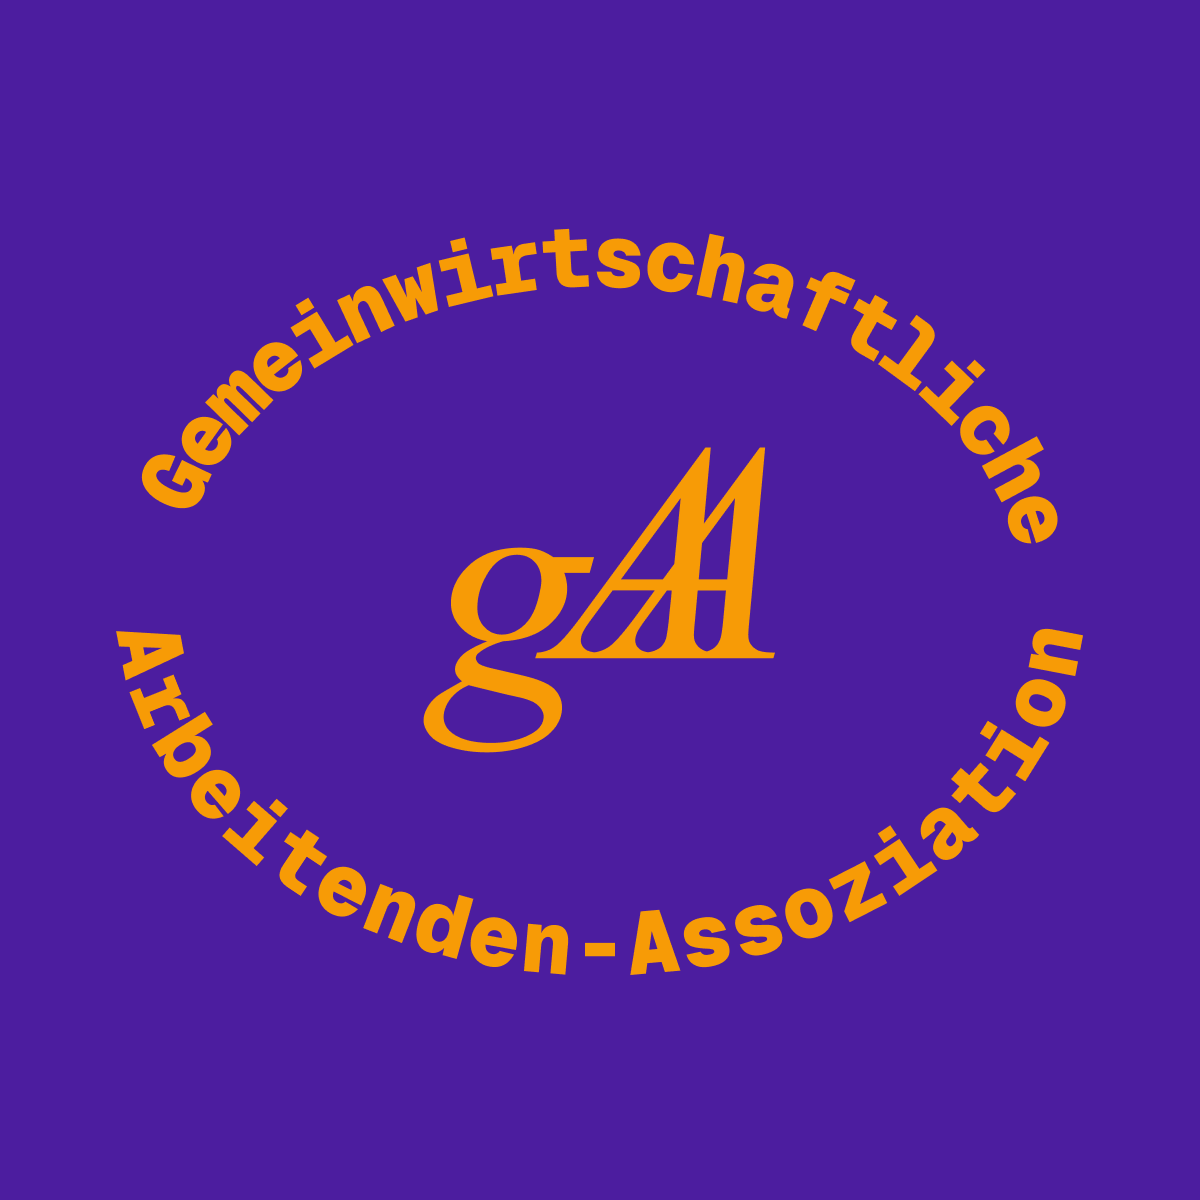
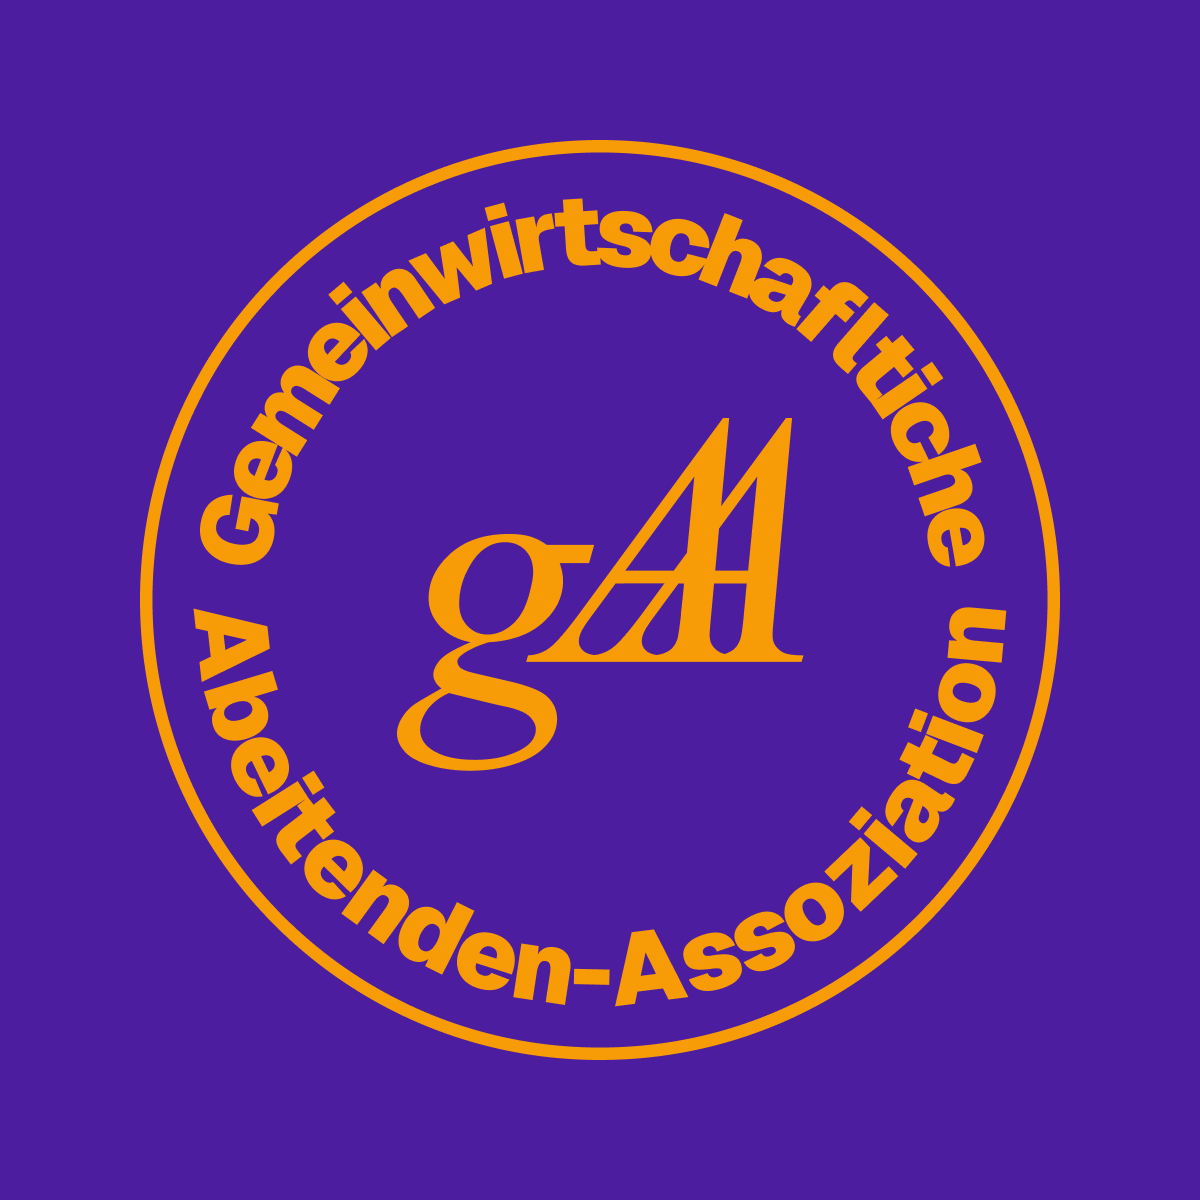
Use 2x1 OpenGraph image for Twitter card
Update Twitter card meta to reference the 2x1 OpenGraph image and replace the repository's OpenGraph image file. This ensures the summary_large_image card uses a 2:1 image aspect ratio for better display on social platforms.

diff --git a/index.html b/index.html
@@ -21,7 +21,7 @@
     
     <!-- Twitter -->
     <meta name="twitter:card" content="summary_large_image">
-    <meta name="twitter:image" content="https://www.gaa-coop.de/images/opengraph/1x1.png">
+    <meta name="twitter:image" content="https://www.gaa-coop.de/images/opengraph/2x1.png">
 
     <!-- Schema.org WebSite Structured Data -->
     <script type="application/ld+json">